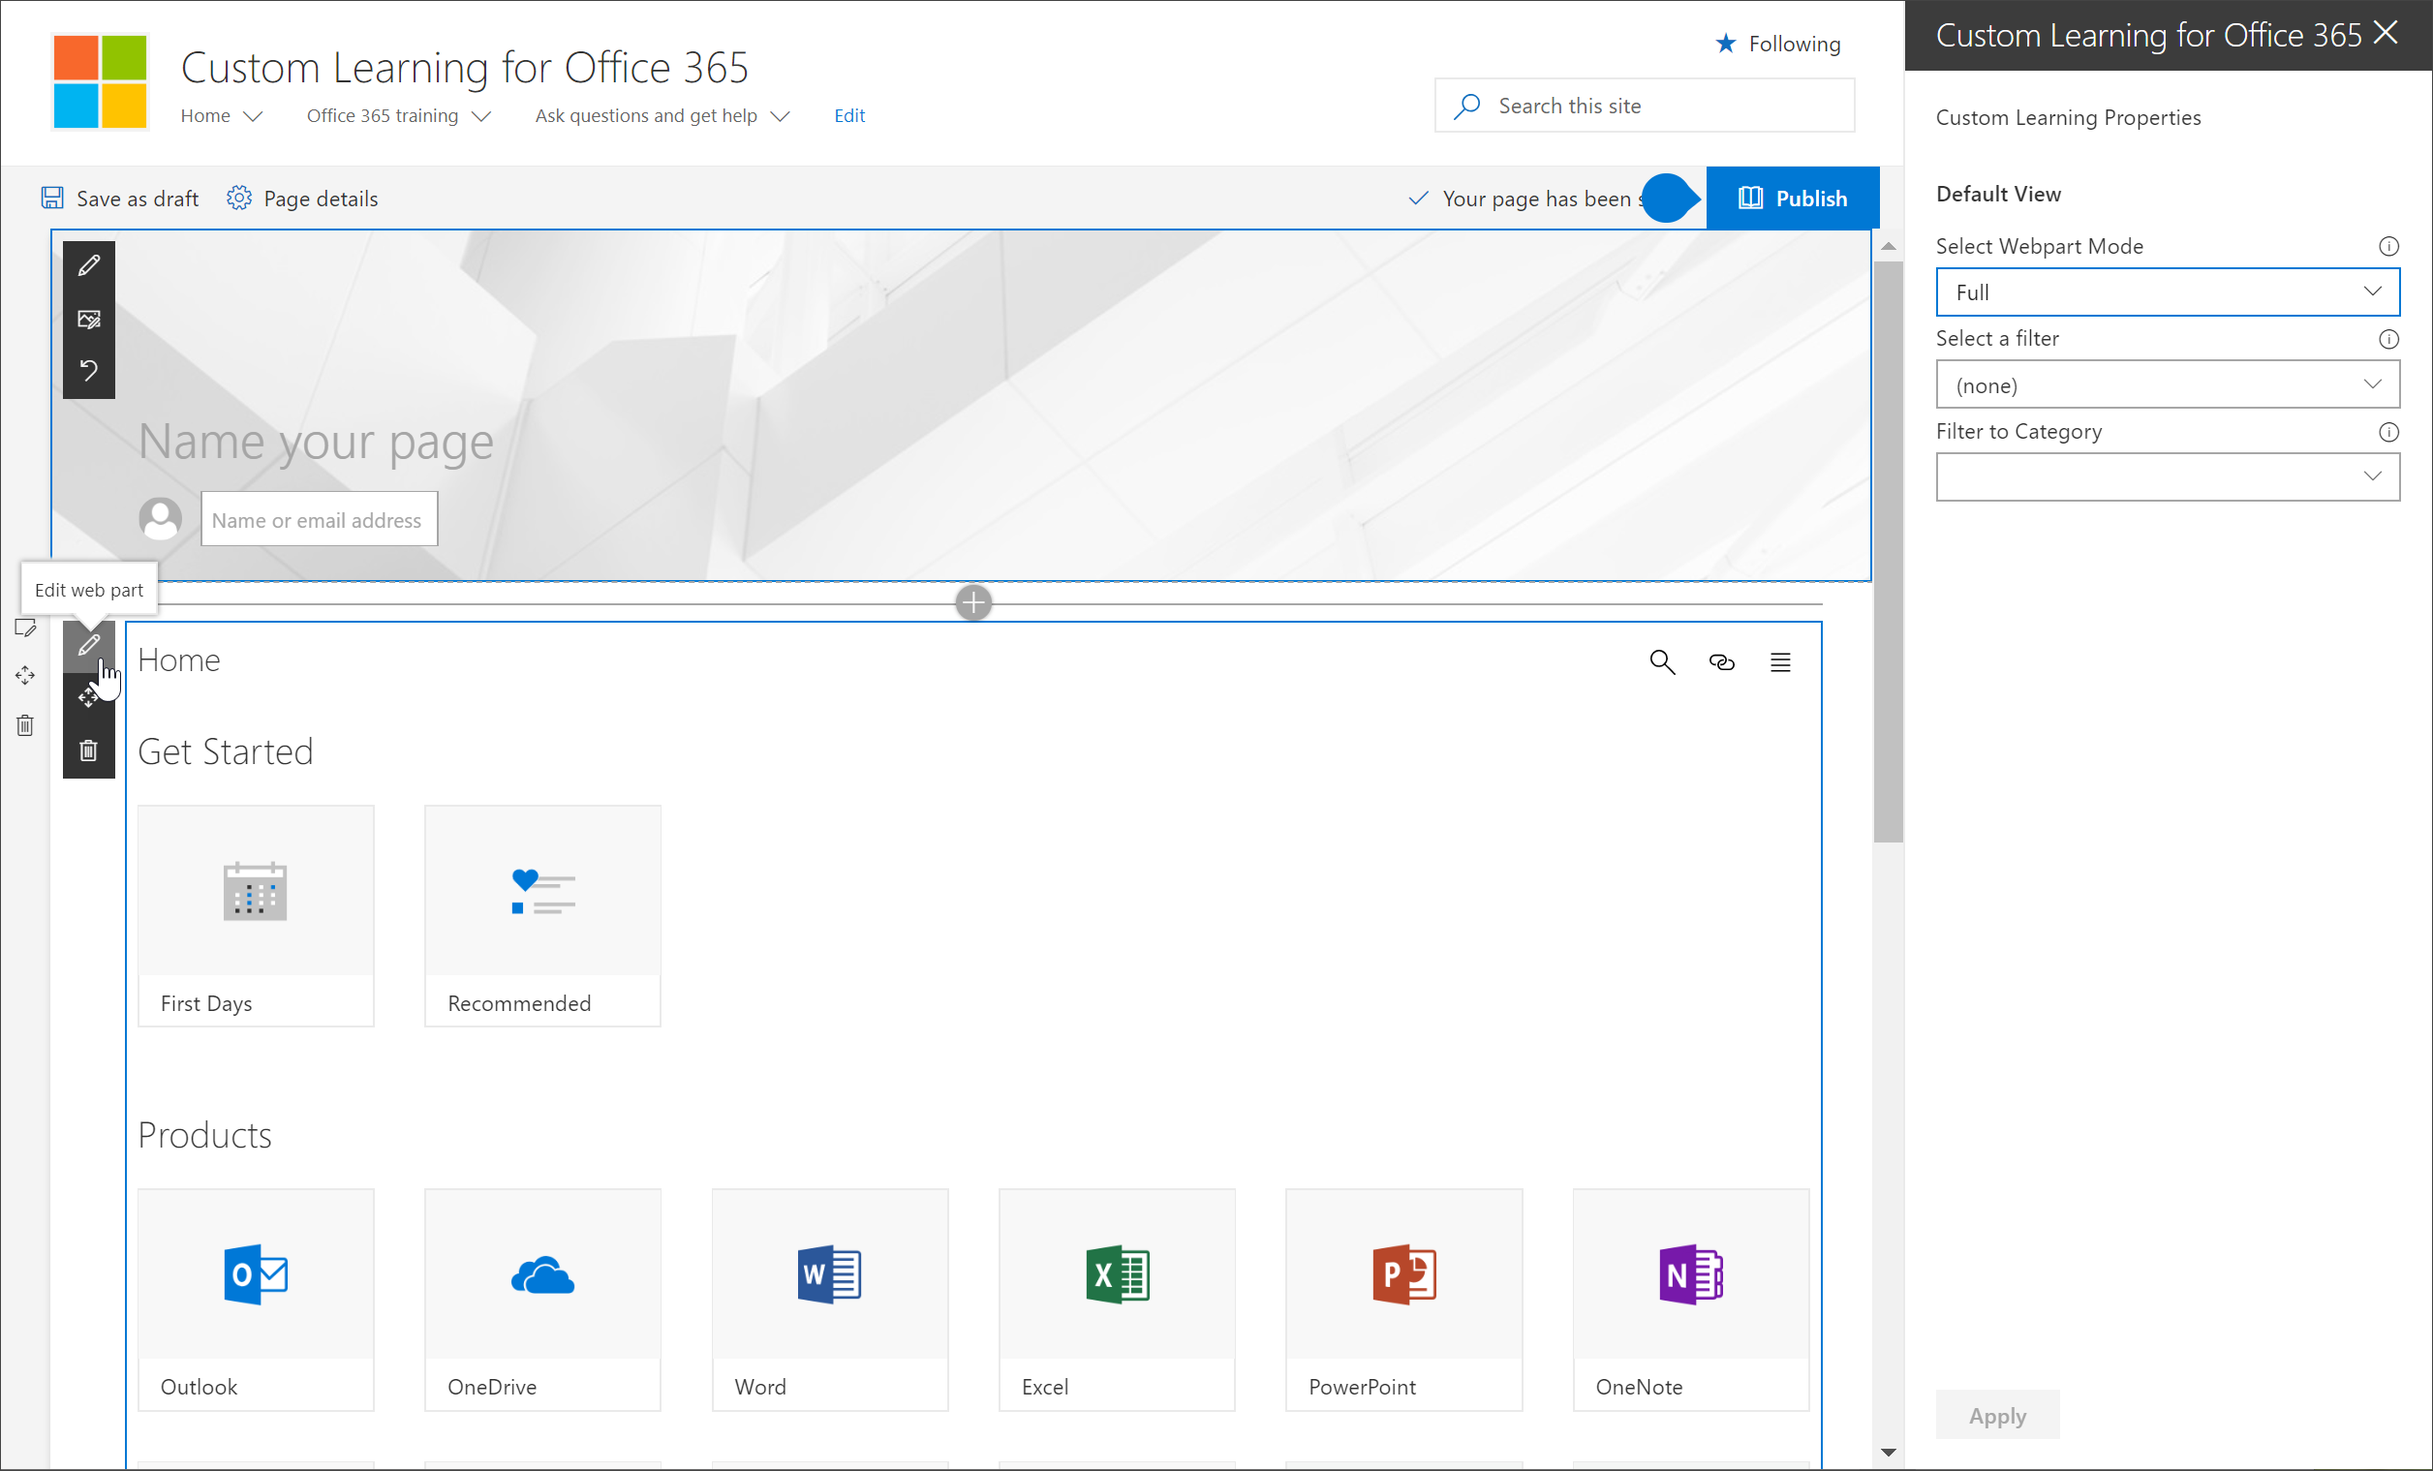
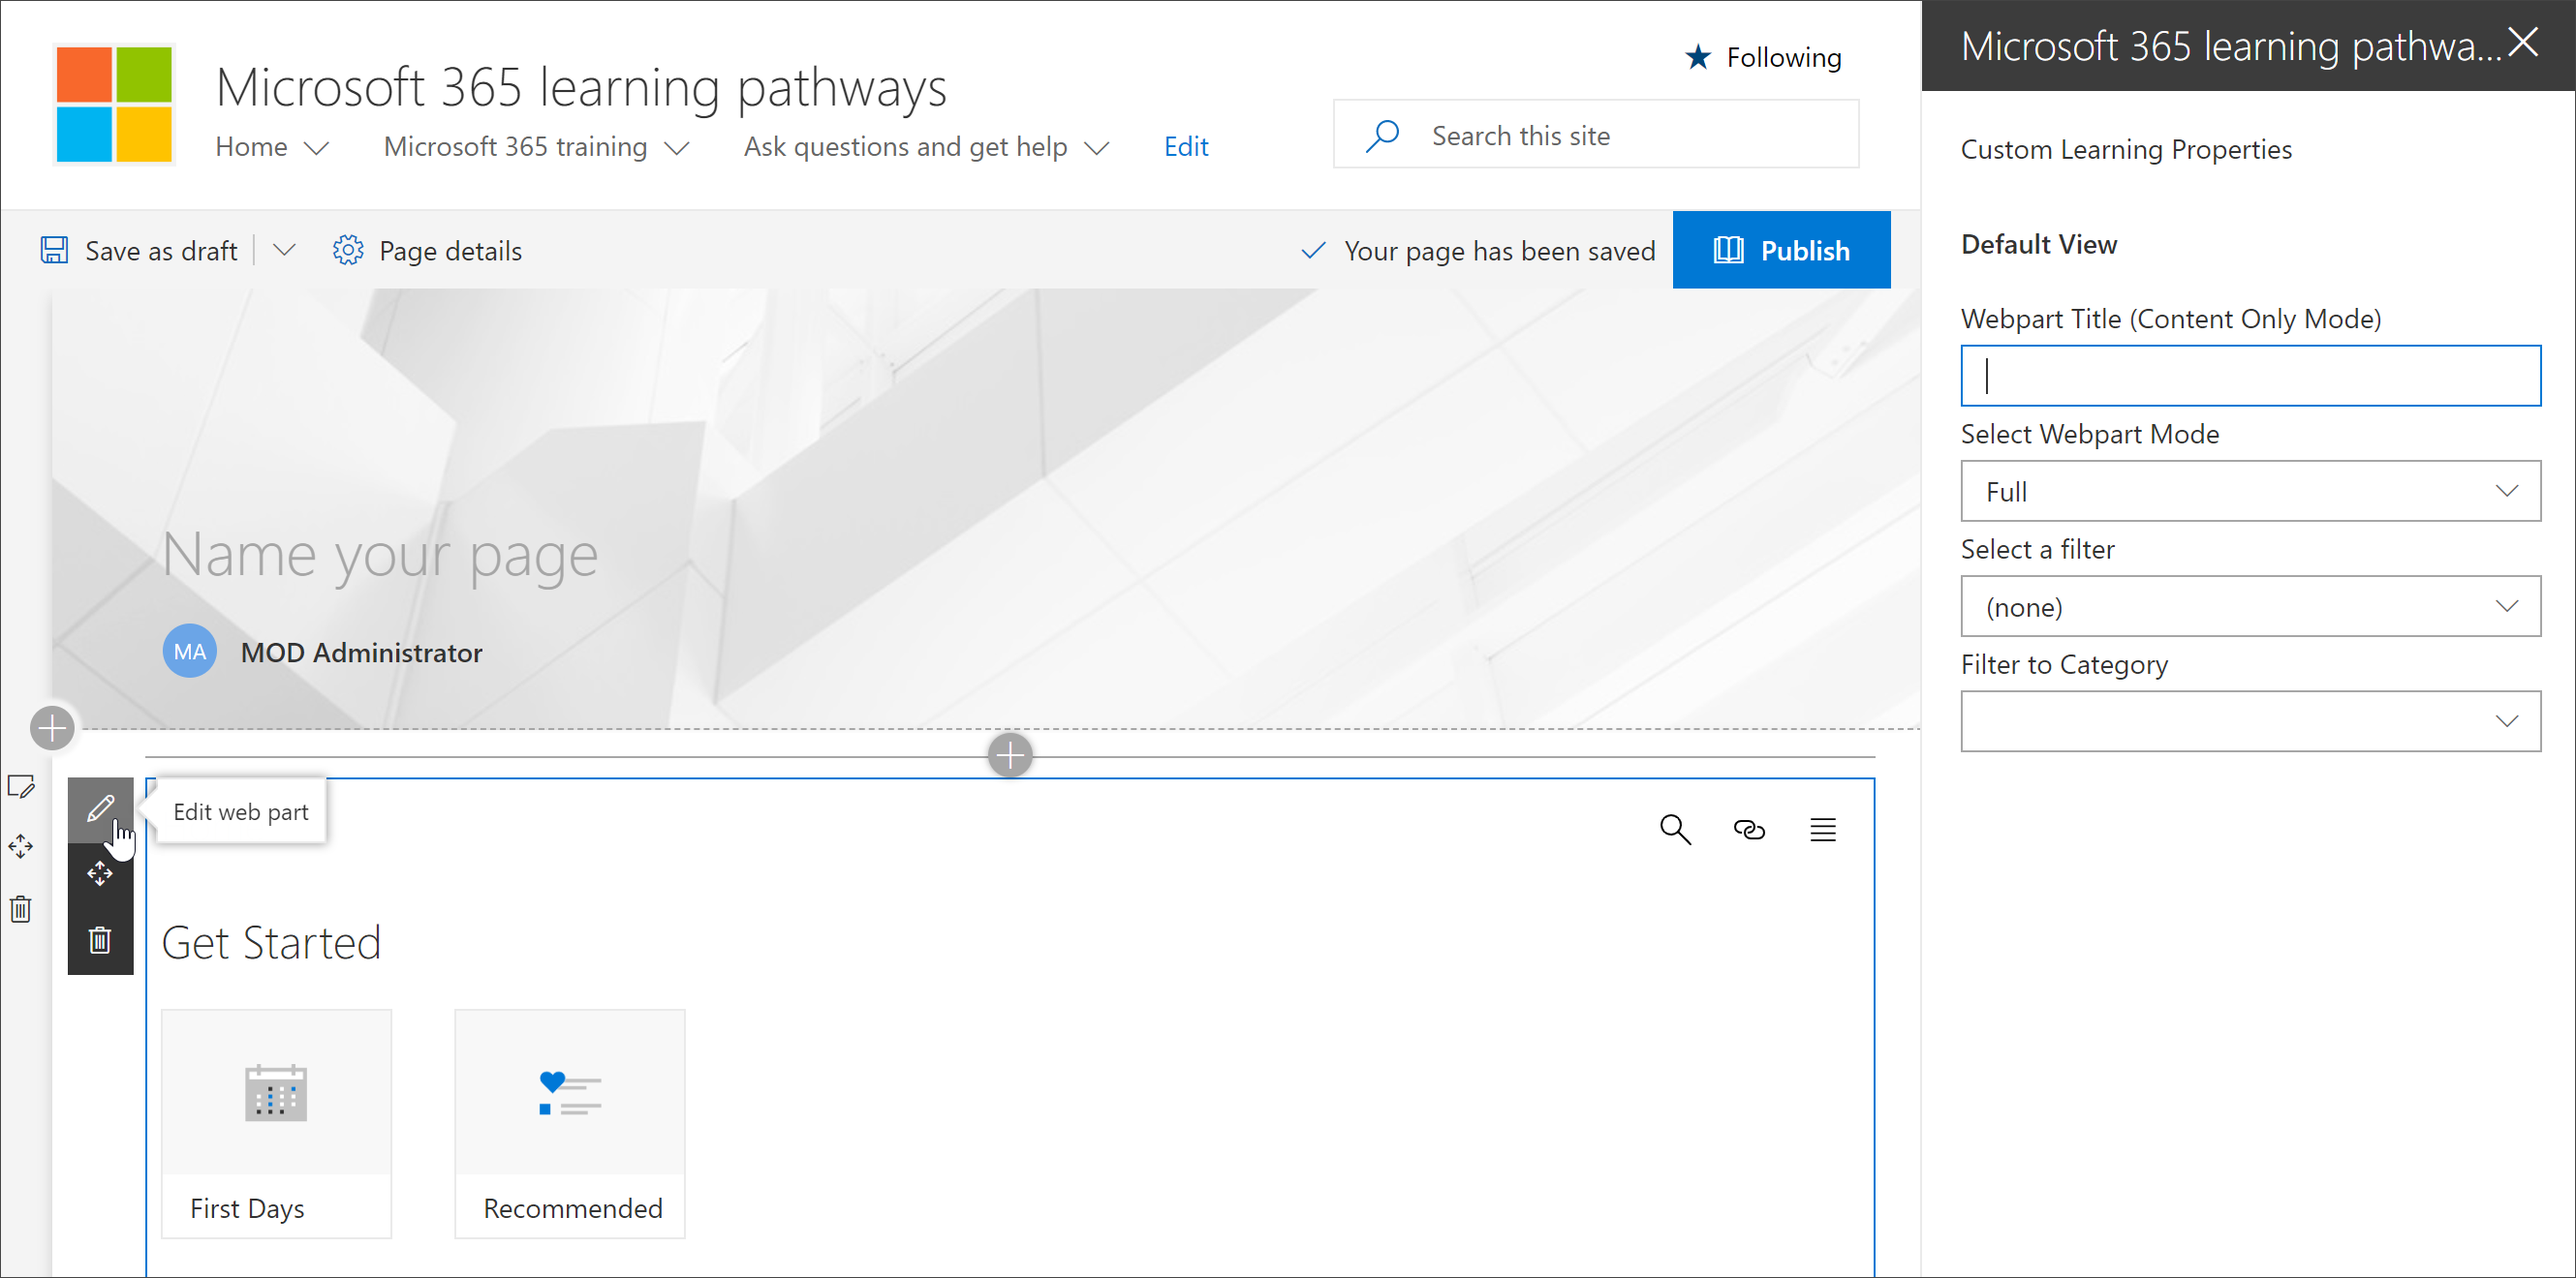
m365 update

diff --git a/CustomLearning/custom_addwebpart.md b/CustomLearning/custom_addwebpart.md
@@ -1,23 +1,23 @@
 ---
 author: pkrebs
 ms.author: pkrebs
-title:  Add and edit the Custom Learning Web part
+title:  Add and edit the Microsoft 365 learning pathways Web part
 ms.date: 02/17/2019
-description: Add the Custom Learning web part to a SharePoint page
+description: Add the Microsoft 365 learning pathways web part to a SharePoint page
 ---
 
-# Add and Edit the Custom Learning web part
+# Add and Edit the Microsoft 365 learning pathways web part
 
-Custom Learning gives you the flexibility to add the Custom Learning Web part to a SharePoint page, and then filter the contents of the Web part to meet the learning objectives for the page. For example, you could create a "Make the Switch to OneDrive" page, then add the Web part and configure it to show custom OneDrive migration playlists created especially for your organization.
+Microsoft 365 learning pathways gives you the flexibility to add the Microsoft 365 learning pathways web part to a SharePoint page, and then filter the contents of the Web part to meet the learning objectives for the page. For example, you could create a "Make the Switch to OneDrive" page, then add the Web part and configure it to show custom OneDrive migration playlists created especially for your organization.
 
 1.	Click the SharePoint Gear icon, and then click **Add a page**.
 2.	Click **Add a new section (+)** on the left-hand side of the page, and then click **One Column**.
-3.	Click **+**, then select **Custom Learning for Office 365** web part. 
+3.	Click **+**, then select **Microsoft 365 learning pathways** web part. 
 
 ![cg-webpartadd.png](media/cg-webpartadd.png)
 
 ## Edit the Custom Learning web part
-You can the edit Custom Learning Web part to show all the available Custom Learning content or a specific category, subcategory, playlist, or asset. 
+You can the edit the Microsoft 365 learning pathways web part to show all the available Custom Learning content or a specific category, subcategory, playlist, or asset. 
 
 1.	Click **Edit web part**.
 
